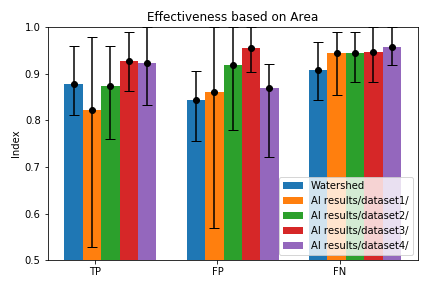
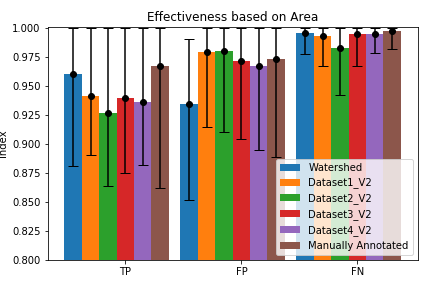
cv.commit

diff --git a/Watershed/FUNCTIONS_V2.py b/Watershed/FUNCTIONS_V2.py
@@ -562,7 +562,7 @@ def COMPARATOR(MatrixT, MatrixR, PARAMETERS, DETAIL):
         Result[0][2] += FN
         Result[0][3] += Tarea
 
-        if (TP + FP) == 0:  # none found
+        if (TP + FP) == 0:  # no result area found
             Result = Result
             
         elif TP / (FP + TP) >= Cutoff:  # TP
@@ -570,24 +570,43 @@ def COMPARATOR(MatrixT, MatrixR, PARAMETERS, DETAIL):
             FibersR.remove(ID_R)
 
         elif FP != 0 or FN != 0:
+            
+            if FP/Tarea >= CutoffMUI:  # FP
+                Result = Result
+                
             if CheckForMUI: # check MUI TO DO
+                # set 2nd pass with every fiber
+                mul_matrix = MUL_Matrix
+                dif_Matrix = DIF_Matrix
+                submatrixR = MatrixR[RectT[0]:RectT[2], RectT[1]:RectT[3]]
                 # find every fiber in SubMatrix
                 ID_Rarr = []
                 for ID in FibersR:
-                    n_id = MatrixCount(SubMatrixR, ID)
+                    n_id = MatrixCount(submatrixR, ID)
                     if n_id != 0:
                         ID_Rarr.append(ID)
-                # if the combination of every fiber is CI, then MUI
-
-                if TP / Tarea >= Cutoff:  # CI+ == MUI
-                    MUI += 1
-        
-            elif FP/Tarea >= CutoffMUI:  # FP
-                Result = Result
                 
+                # matrix counting, again
+                tp,fp = 0,0
+                for ID in ID_Rarr:
+                    submatrixR = MatrixBin((MatrixR[RectTR[0]:RectTR[2], RectTR[1]:RectTR[3]]), ID)
+                    mul_matrix += np.multiply(SubMatrixT, submatrixR)
+                    dif_Matrix = np.subtract(SubMatrixT, submatrixR)
+                    tp += MatrixCount(mul_matrix, 1)
+                    fp += MatrixCount(dif_Matrix, -1)
+                    
+                # if the combination of every fiber is CI, then MUI
+                
+                if tp / Tarea >= CutoffMUI:  # CI+ == MUI
+                    MUI += 1
+                else: # FN
+                    Result[1][2] += 1
+                    for ID in ID_Rarr:
+                        FibersR.remove(ID)
+                        
             else: # FN
-                #FibersR.remove(ID_R)
                 Result[1][2] += 1
+                FibersR.remove(ID_R)
                 
         else: # nothing detected
             Result = Result
@@ -636,8 +655,8 @@ def COMPARATOR(MatrixT, MatrixR, PARAMETERS, DETAIL):
     FP_fib = 0
     for ID_R in FibersR:
         FP_fib += MatrixCount(MatrixR, ID_R)
-    Result[0][1] = FP_fib
-    Result[1][1] = len(FibersR)
+    Result[0][1] = round(FP_fib,0)
+    Result[1][1] = round(len(list(dict.fromkeys(FibersR))),0)
     
     # derive metrics
     Result[2][0] = Result[1][0]/Result[1][3]
@@ -728,7 +747,7 @@ def NAMES(loop, N=[], M=[],K=[], tape="", Name="Tape_B"):
     elif loop == "List":
         if N == [] or M==[]: # default
             N = [1, 1, 2, 3, 5, 6, 7, 8, 8, 11]
-            M = [4, 7, 3, 4, 7, 6, 3, 5, 9, 6]
+            M = [4, 7, 3, 8, 7, 6, 3, 5, 9, 6]
         i = 0
         while i < len(N):
             if tape == "Large" or tape == "Cropped":
@@ -840,7 +859,7 @@ def ID_renamer(ar):
 def PLOT(Data, Algo,Title,Labels,Range,Save):
     width = 0.15
     gap = 0.2
-    index = -width*len(Algo)/2
+    index = -width*len(Algo)/2-gap
     
     x = np.arange(len(Labels))  # the label locations
     fig, ax = plt.subplots()
@@ -851,9 +870,10 @@ def PLOT(Data, Algo,Title,Labels,Range,Save):
         if a == 0: X += gap
         else: X += width
         
-        ax.bar(     X, Data[a][1], width=width, label=Algo[a])
+        ax.bar(     X, Data[a][1], width=width, label=Algo[a].split("/",1)[-1] )
         ax.errorbar(X, Data[a][1], yerr=[Data[a][0], Data[a][2]], fmt='ko', capsize=5)
         a += 1
+        if a == len(Algo): X += width
 
     # Add some text for labels, title and custom x-axis tick labels, etc.
     plt.title(Title)
@@ -1168,19 +1188,22 @@ def ComparatorM(matrix,matrix2):
 
 #comparatorS=ComparatorOf2(matrix,matrix3)
 #print(" For Stardist: identified", comparatorS[0],"misidentified",comparatorS[1])
-def DELTA(matrix,matrix2):
-    print(matrix.shape)
-    matrix2 = np.pad(matrix2, ((0, 2), (0, 2)))
+def DELTA(matrix,matrix2,DETAIL):
+    if "print" in DETAIL[0]:
+        print(matrix.shape)
+    matrix2 = np.pad(matrix2, ((0, 2), (0, 2)), mode='constant')
     #matrix = np.pad(matrix, ((0, 2), (0, 2)))
     #matrix = matrix.astype(int)
     #matrix2 = matrix2.astype(int)
     numero=findhighestIDnumber(matrix)
-    print(numero)
+    if "print" in DETAIL[0]:
+        print(numero)
     numero2=findhighestIDnumber(matrix2)
     identified=0
     misidentified=0
     number=findlowestIDnumber(matrix)
-    print(numero,numero2)
+    if "print" in DETAIL[0]:
+        print(numero,numero2)
     numero=numero+1
     exist=existingFiberIds(matrix,numero)
     exist2 = existingFiberIds(matrix2, numero2)
@@ -1205,5 +1228,6 @@ def DELTA(matrix,matrix2):
         if mp2[i]>0:
             array.append((mp2[i],"groups of", i))
     delta = mui / numberoffibers2
-    print("delta",delta)
+    if "print" in DETAIL[0]:
+        print("delta",delta)
     return delta

diff --git a/Watershed/MAIN_V2.py b/Watershed/MAIN_V2.py
@@ -40,12 +40,13 @@ print("\n----- START PROGRAM ----- \n")
 Jurgen = False # for AI training sets
 
 Loop = "List"  # Range, Random, List, All
-N,M= [],[]
+N = [1, 1, 2, 3, 5, 6, 7, 8, 8, 11]
+M = [4, 7, 3, 8, 7, 6, 3, 5, 9, 6]
 K = [Jurgen/10,2] #if random: number of picks in folder, seed
 Name = "Tape_B"
 Tape= "Cropped" #Large, Cropped, none=smalls
 
-Detail = [["print", "draw", ""], 250]  # draw/print/save, substep Dt
+Detail = [["", "", ""], 250]  # draw/print/save, substep Dt
 
 Compute = ["","","CP","PL"] #WT,CV,CP,"PL"
 
@@ -57,16 +58,16 @@ WT_Parameters = [3, [0.3, 2, 2], [10, 10, 1], 3, "exact",""]  # Radius, Relative
 
 CV=[""] #CROP, TIFtoCSV
 
-CP_Parameters = [0.85,0.85,""]  # cutoff
-CP_GroundTruth = "Annotated/Validation/"   #sub-folder
+CP_Parameters = [0.8,0.8,"M"]  # cutoff
+CP_GroundTruth = "Annotated/Ground Truth/"   #sub-folder
 CP_Algorithms = [               #chosen algos
-        #"Watershed",
-        #"AI results/dataset1/",
-        #"AI results/dataset2/",
-        #"AI results/dataset3/",
-        #"AI results/dataset4/",
-        #"Annotated/GroundTruth/",
-        "Annotated/Validation/"
+        "Watershed",
+        "AI results/Dataset1_V2",
+        "AI results/Dataset2_V2",
+        "AI results/Dataset3_V2",
+        "AI results/Dataset4_V2",
+        "Annotated/Manually Annotated",
+        #"Annotated/Ground Truth/"
         ]
 
 PL_Metric = [
@@ -79,8 +80,8 @@ PL_Labels=[
             [r'TP', r'FP', r'FN'],
             [r'$\alpha$', r'$\beta$', r'$\gamma$', r'$\delta$']
             ]
-PL_Range = [0.5,1]
-    
+PL_Range = [0.8,1]
+
 # file paths (GitHub structure dependent)
 
 WT_PathIN = "../Data/Tape_B/"
@@ -344,7 +345,7 @@ if "CP" in Compute:
             
             # MUI - delta:
             if "M" in CP_Parameters:
-                delta = DELTA(CP_MatrixT,CP_MatrixR)
+                delta = DELTA(CP_MatrixT,CP_MatrixR,Detail)
             else: delta = result[2][3]
     
             # Results bt :
@@ -433,7 +434,7 @@ if "CP" in Compute:
     # Plots
     if "PL" in Compute:
         print("\n - PLOTS - \n")
-        
+        os.chdir(path_script)
         m = 0
         while m < len(PL_Metric): # for each plot type
             CP_stat = []
@@ -454,7 +455,7 @@ if "CP" in Compute:
                 a+=1
             PL_Range[1]+=errorMin
             Title = str("Effectiveness based on "+PL_Metric[m])
-            PLOT(CP_stat, CP_Algorithms,Title ,PL_Labels[m],PL_Range,Save)
+            PLOT_BAR(CP_stat, CP_Algorithms, Title ,PL_Labels[m],PL_Range,Save)
             m += 1
         
     T1 = time.time()
